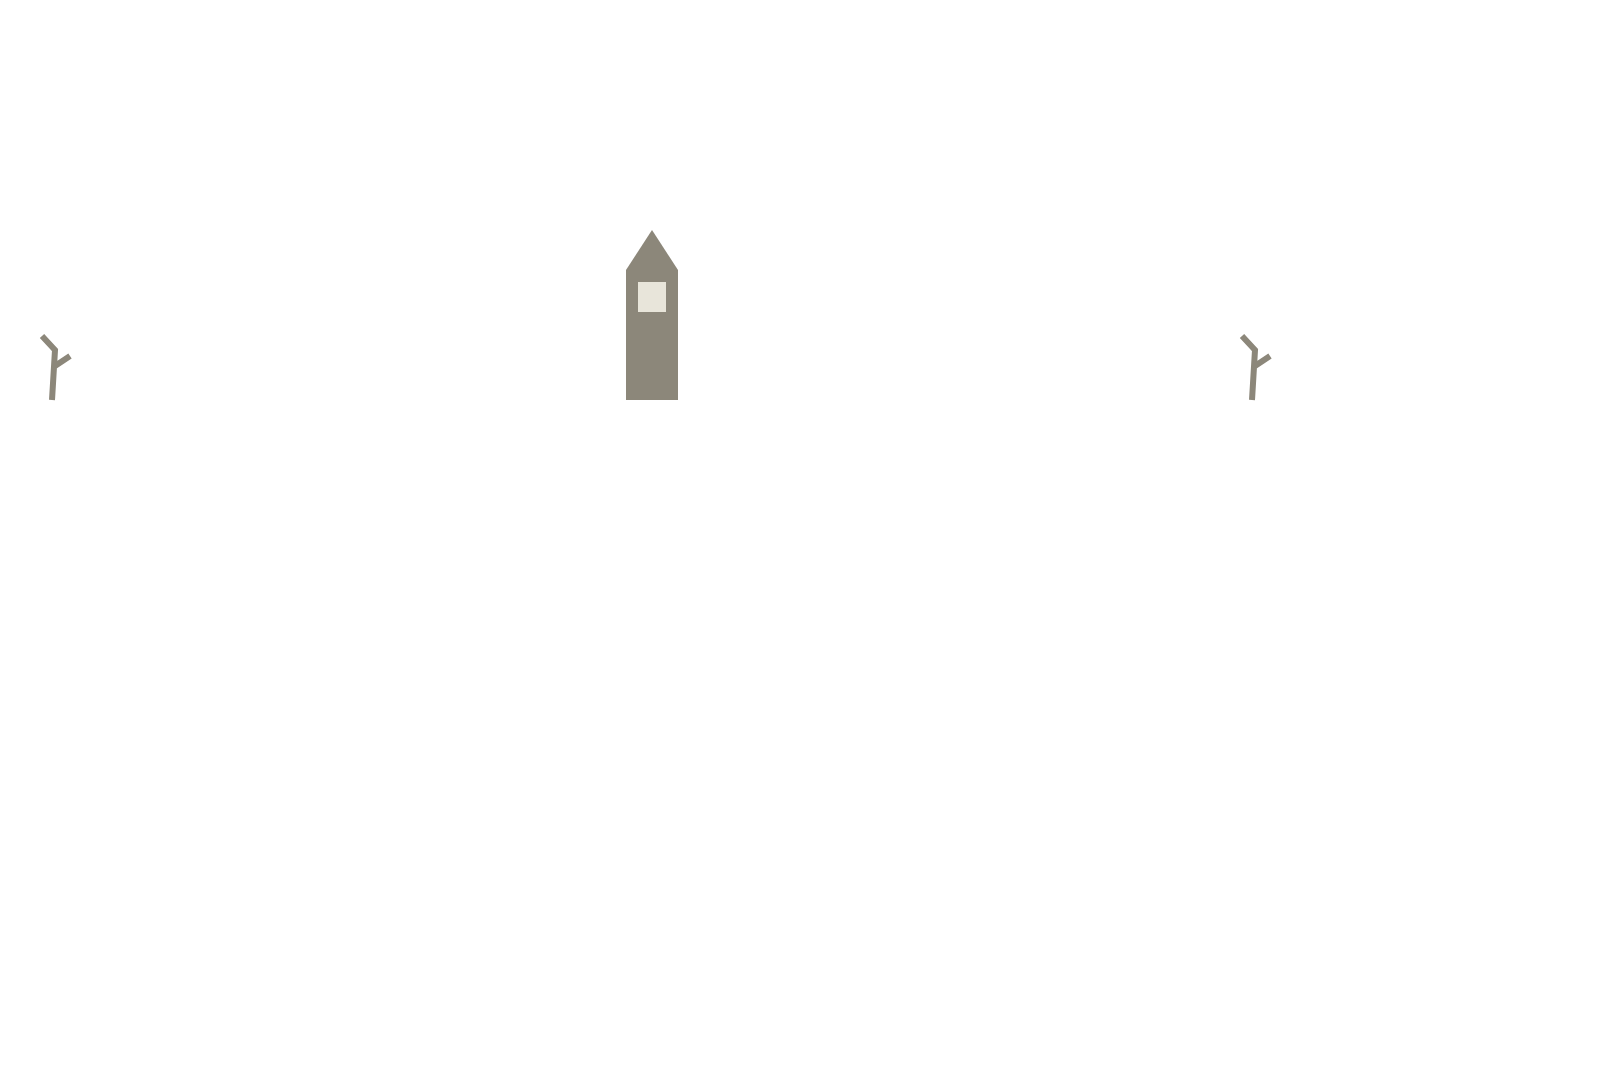
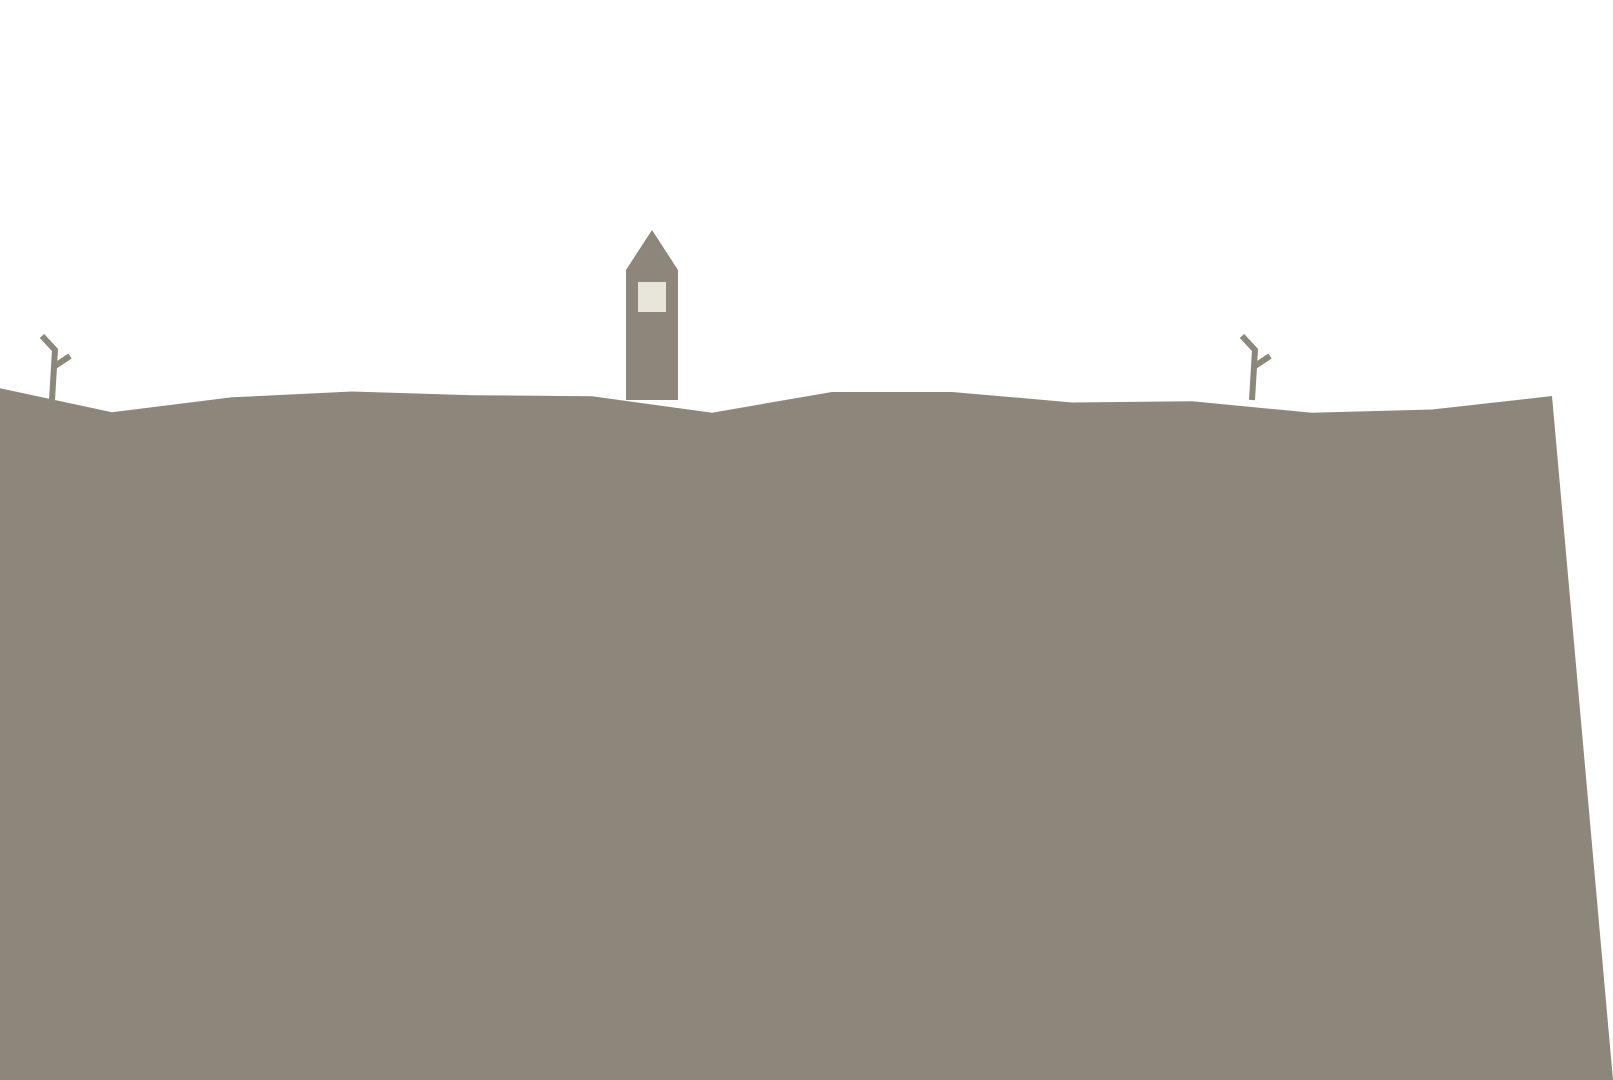
Étape 2 : vieux boyau peint ; étape 1 : colline du plan lointain rétablie
- Le vieux boyau sous le poste (détour) reçoit son fond peint fixe
  (tools/gen_decors_e2_lieux.py) : coffrage ancien, prières clouées aux étais,
  bougies froides, flaques ; lampe allumée, simple hachure uniforme.
- DecorParallaxe : dessin_lieu() et masquer_gris_lieu() partagés par
  DecorE1, DecorE2 et DecorE3 (code des lieux dédupliqué).
- Étape 1, plan 1 : le chemin de la colline était mal formé (M0 + crête),
  elle n'était pas dessinée.

Claude-Session: https://claude.ai/code/session_011WbKxBfoJbcyebqrVqkEA5

diff --git a/tools/gen_decors_e2_lieux.py b/tools/gen_decors_e2_lieux.py
@@ -1,0 +1,111 @@
+#!/usr/bin/env python3
+"""Génère le fond du seul lieu de l'étape 2 : le vieux boyau sous le poste de Brisse (détour).
+
+art/src/env/e2/env_e2_plan3_boyau-detour_01.svg, repère local de
+scenes/etapes/etape_02/lieux/boyau_detour.tscn : sol à y 900, plafond de collision de 330 à 450,
+sortie vers le poste aval à x 1700 (passage de 160 x 300). Tobie arrive par l'échelle du poste.
+
+Texte (e2_poste, ~ boyau) : « Il sent la terre mouillée et la bougie froide. Le plafond tient
+avec des planches et des prières. » Tobie a allumé sa lampe : la galerie est sous une simple
+hachure uniforme, sans anneau fixe (la lampe le suit, voir la vieille sape de l'étape 1).
+Mêmes pièces que les sapes de l'étape 1 (tools/gen_decors_e1_lieux.py), en plus vieux et mouillé.
+
+Usage : python3 tools/gen_decors_e2_lieux.py
+"""
+from __future__ import annotations
+
+from gen_decors_e1_lieux import (BAS_PLAFOND, DEFS, ENCRE, H, LAVIS, MINE, PAPIER, PLAFOND, SOL, ST,
+                                 escalier, etai)
+from gen_decors_e1_surface import rnd
+from gen_decors_e2_surface import DST
+
+W = 1920
+
+
+def bougie_froide(x: int, y: int, h: int) -> str:
+    """Bout de bougie éteinte, la cire coulée sur la planche, mèche noire."""
+    top = y - h
+    return (f'<path d="M{x - 6} {y} V{top} H{x + 6} V{y} Z" fill="{PAPIER}" {ST} stroke-width="2"/>'
+            f'<path d="M{x - 6} {top + 6} q-4 8 -2 16 M{x + 6} {top + 4} q5 10 2 {h - 6}" {ST} stroke-width="1.6"/>'
+            f'<path d="M{x - 12} {y} Q{x} {y - 6} {x + 12} {y}" fill="{PAPIER}" {ST} stroke-width="1.6"/>'
+            f'<path d="M{x} {top} q2 -6 -1 -10" {ST} stroke-width="2"/>')
+
+
+def priere(x: int, y: int, ang: float) -> str:
+    """Bout de papier plié, cloué à un étai : une prière (texte en traits illisibles)."""
+    return (f'<g transform="rotate({ang:.0f} {x} {y})">'
+            f'<rect x="{x - 14}" y="{y}" width="28" height="36" fill="{PAPIER}" {ST} stroke-width="2.2"/>'
+            f'<path d="M{x - 9} {y + 11} H{x + 8} M{x - 9} {y + 18} H{x + 5} M{x - 9} {y + 25} H{x + 8}" {ST} stroke-width="1.1"/>'
+            f'<circle cx="{x}" cy="{y + 4}" r="2" fill="{ENCRE}"/></g>')
+
+
+def boyau_detour() -> str:
+    r = rnd(21)
+    out = [f'<rect width="{W}" height="{H}" fill="url(#terre)"/>',
+           f'<rect width="{W}" height="{PLAFOND}" fill="{LAVIS}"/>',
+           f'<rect y="{BAS_PLAFOND}" width="{W}" height="{SOL - BAS_PLAFOND}" fill="url(#terre)" {ST} stroke-width="3"/>']
+    # coffrage ancien : planches inégales, plusieurs gauchies, des trous où la terre suinte
+    x = 0
+    while x < W:
+        lg = r.randint(140, 300)
+        for y in range(470, SOL - 30, 46):
+            if r.random() < .72:
+                ang = r.uniform(-2.5, 2.5)
+                out.append(f'<rect x="{x}" y="{y}" width="{lg}" height="40" fill="{PAPIER}" {ST} stroke-width="2.2" '
+                           f'transform="rotate({ang:.1f} {x + lg // 2} {y + 20})"/>')
+                out.append(f'<path d="M{x + 12} {y + 14} H{x + lg // 2}" stroke="{MINE}" stroke-width="1.3"/>')
+        x += lg + r.randint(0, 30)
+    # plafond : planches de travers, l'une cassée qui pend
+    out.append(f'<rect y="{PLAFOND}" width="{W}" height="{BAS_PLAFOND - PLAFOND - 30}" fill="url(#h2)" {ST} stroke-width="3"/>')
+    x = 0
+    while x < W:
+        lg = r.randint(160, 280)
+        dy = r.randint(-4, 8)
+        out.append(f'<rect x="{x}" y="{BAS_PLAFOND - 40 + dy}" width="{lg}" height="30" fill="url(#h1)" {ST} stroke-width="2.6"/>')
+        x += lg + r.randint(10, 40)
+    out.append(f'<path d="M1040 {BAS_PLAFOND - 12} L1180 {BAS_PLAFOND + 70} L1172 {BAS_PLAFOND + 84} L1030 {BAS_PLAFOND + 4} Z" fill="url(#h1)" {ST} stroke-width="2.6"/>')
+    # gouttes et filets d'eau
+    for xg in range(130, W, 210):
+        lg = r.randint(30, 90)
+        out.append(f'<path d="M{xg} {BAS_PLAFOND - 8} q3 {lg // 2} 0 {lg}" {ST} stroke-width="1.4"/>')
+        out.append(f'<path d="M{xg} {BAS_PLAFOND + lg + 10} q-4 6 0 10 q4 -4 0 -10 Z" fill="{PAPIER}" {ST} stroke-width="1.4"/>')
+    # étais, chacun avec ses prières clouées
+    for xe, pen in ((220, 0), (520, .04), (860, -.05), (1240, .06), (1520, -.03), (1880, 0)):
+        out.append(etai(xe, r, pen))
+        for k in range(r.randint(1, 3)):
+            out.append(priere(xe + r.randint(-8, 8), 520 + k * 70 + r.randint(0, 20), r.uniform(-14, 14)))
+    # l'échelle du poste par où Tobie est descendu (à gauche, hors passage)
+    out.append(f'<rect x="60" y="0" width="120" height="{SOL}" fill="{ENCRE}"/>')
+    out.append(f'<path d="M80 0 V{SOL} M160 0 V{SOL}" stroke="{PAPIER}" stroke-width="7"/>')
+    for y in range(40, SOL, 64):
+        out.append(f'<path d="M80 {y} H160" stroke="{PAPIER}" stroke-width="5"/>')
+    # rebord taillé dans la terre : les bougies froides (« la bougie froide »)
+    out.append(f'<path d="M640 720 H900" {ST} stroke-width="8"/>')
+    for bx, bh in ((670, 18), (712, 30), (760, 12), (820, 24), (870, 16)):
+        out.append(bougie_froide(bx, 716, bh))
+    # sortie vers le poste aval
+    out.append(escalier(1700, vers_droite=True))
+    # sol : caillebotis pourri, flaques en papier
+    out.append(f'<rect y="{SOL}" width="{W}" height="{H - SOL}" fill="url(#terre)" {ST} stroke-width="3"/>')
+    for xc in range(0, W, 36):
+        if r.random() < .6:
+            out.append(f'<path d="M{xc + 4} {SOL + 2} V{SOL + 34 + r.randint(-6, 4)}" {ST} stroke-width="2"/>')
+    out.append(f'<path d="M0 {SOL + 36} H{W}" {ST} stroke-width="2.4" stroke-dasharray="120 40"/>')
+    for fx_, rx in ((420, 90), (1010, 140), (1420, 70)):
+        out.append(f'<ellipse cx="{fx_}" cy="{SOL + 22}" rx="{rx}" ry="10" fill="{PAPIER}" {ST} stroke-width="2"/>')
+        out.append(f'<path d="M{fx_ - rx // 2} {SOL + 20} H{fx_ + rx // 3}" stroke="{MINE}" stroke-width="1.4"/>')
+    # la lampe allumée de Tobie : simple hachure uniforme, échelle et sortie comprises
+    out.append(f'<rect width="{W}" height="{H}" fill="url(#v1)"/>')
+    return "".join(out)
+
+
+def main() -> None:
+    DST.mkdir(parents=True, exist_ok=True)
+    svg = (f'<svg xmlns="http://www.w3.org/2000/svg" width="{W}" height="{H}" viewBox="0 0 {W} {H}">'
+           f'{DEFS}{boyau_detour()}</svg>\n')
+    (DST / "env_e2_plan3_boyau-detour_01.svg").write_text(svg, encoding="utf-8")
+    print("1 tuile dans art/src/env/e2/")
+
+
+if __name__ == "__main__":
+    main()

diff --git a/tools/gen_decors_e1_surface.py b/tools/gen_decors_e1_surface.py
@@ -185,7 +185,7 @@ def plan2(w: int) -> str:
 
 
 def plan1(w: int) -> str:
-    forme = f"M0 {crete(0, w, 400, 14, 120, 31)} L{w} {H} L0 {H} Z"
+    forme = f"M{crete(0, w, 400, 14, 120, 31)} L{w} {H} L0 {H} Z"
     out = [f'<path d="{forme}" fill="{MINE}"/>']
     # clochers sans cloche : la baie est vide, en papier
     for cx in (900, 2700):
